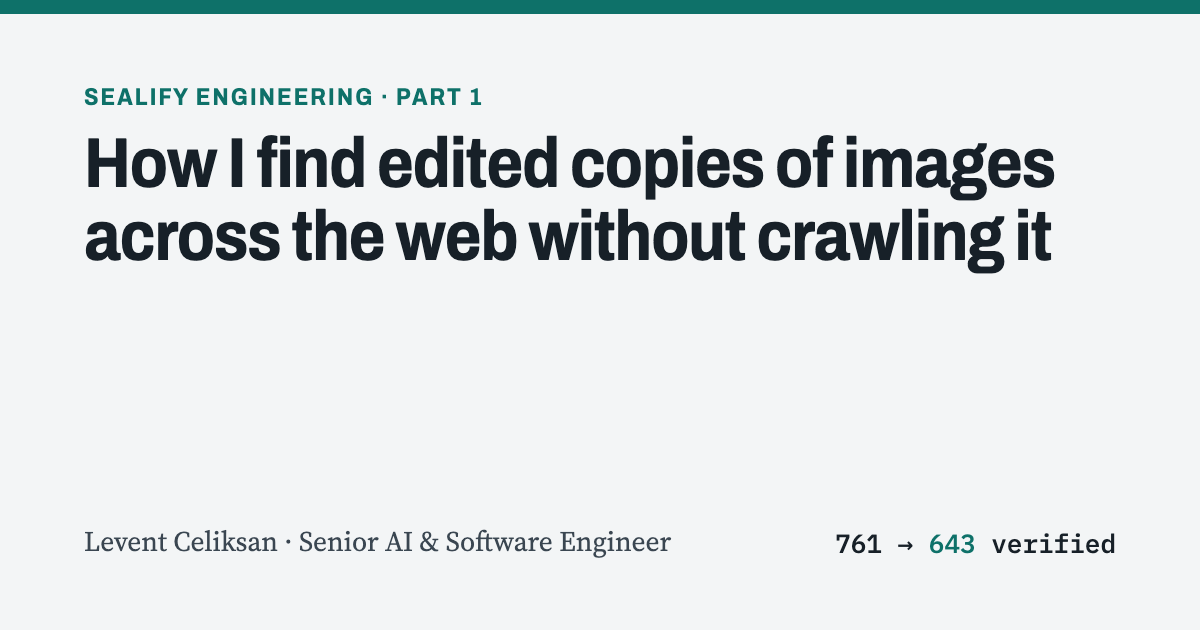
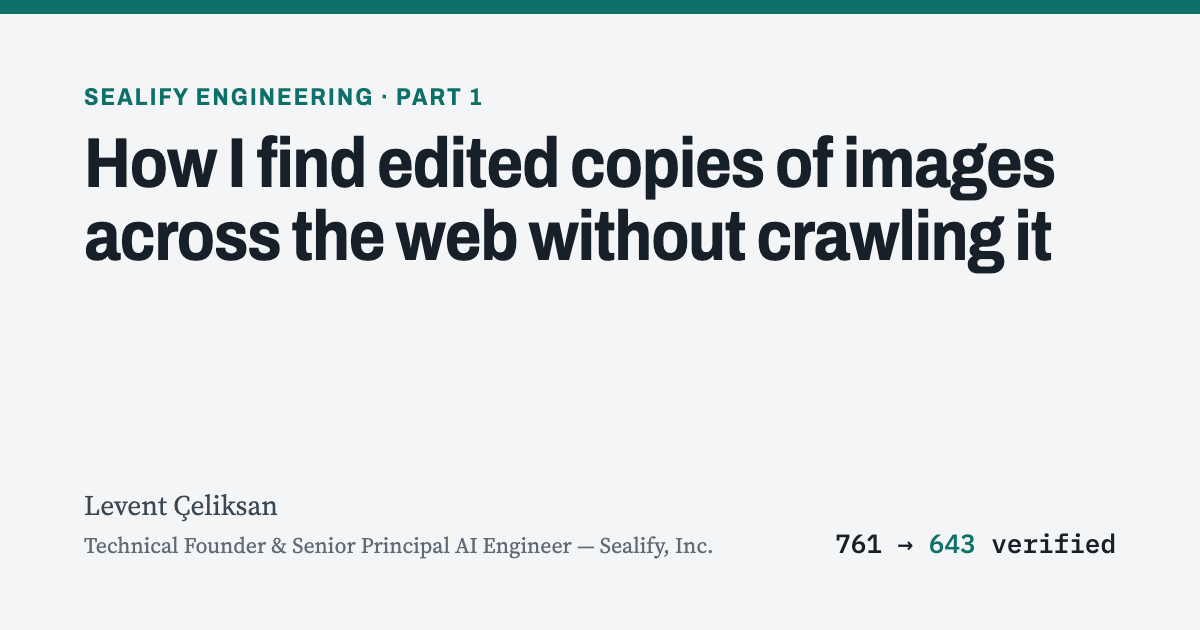
Use current title and name spelling in author lines and cover image

Changed region(s): [[0.0617, 0.7841, 0.5858, 0.9048]]

diff --git a/copy-detection/index.html b/copy-detection/index.html
@@ -3,7 +3,7 @@
 <head>
 <meta charset="utf-8">
 <meta name="viewport" content="width=device-width, initial-scale=1, viewport-fit=cover">
-<title>How I find edited copies of images across the web without crawling it · Levent Celiksan</title>
+<title>How I find edited copies of images across the web without crawling it · Levent Çeliksan</title>
 <link rel="preconnect" href="https://fonts.googleapis.com">
 <link rel="preconnect" href="https://fonts.gstatic.com" crossorigin>
 <link rel="stylesheet" href="https://fonts.googleapis.com/css2?family=Archivo:wdth,wght@87.5,500;87.5,700;100,600&family=IBM+Plex+Mono:wght@400;500&family=Source+Serif+4:ital,opsz,wght@0,8..60,400;0,8..60,600;1,8..60,400&display=swap">
@@ -160,7 +160,7 @@ footer.author .links{display:flex;flex-wrap:wrap;gap:6px 18px;font-size:14px}
 @media (prefers-reduced-motion:reduce){*{scroll-behavior:auto!important}}
 </style>
 <meta name="description" content="Search engines have already crawled the visual web. I use their indexes as the first stage of a copy-detection pipeline and verify every match locally on one Mac mini. Real run: 761 candidates, 643 verified copies on 396 domains.">
-<meta name="author" content="Levent Celiksan">
+<meta name="author" content="Levent Çeliksan">
 <link rel="canonical" href="https://leventceliksan.github.io/copy-detection/">
 <meta property="og:type" content="article">
 <meta property="og:title" content="How I find edited copies of images across the web without crawling it">
@@ -179,7 +179,7 @@ footer.author .links{display:flex;flex-wrap:wrap;gap:6px 18px;font-size:14px}
   <div class="eyebrow">Sealify engineering · Part 1</div>
   <h1>How I find edited copies of images across the web without crawling it</h1>
   <p class="dek">Search engines have already crawled the visual web. Crawling it all again would duplicate that work, along with the hardware, energy and water behind it. I use their indexes as the first stage of a copy-detection pipeline and do all of the verification myself, on one Mac mini.</p>
-  <div class="byline"><span><strong>Levent Celiksan</strong>, founder of Sealify</span><span>September 2026</span><span>11 min read</span></div>
+  <div class="byline"><span><strong>Levent Çeliksan</strong>, Technical Founder &amp; Senior Principal AI Engineer — Sealify, Inc.</span><span>September 2026</span><span>11 min read</span></div>
 </header>
 
 <article>
@@ -387,7 +387,7 @@ footer.author .links{display:flex;flex-wrap:wrap;gap:6px 18px;font-size:14px}
 </section>
 
 <footer class="author">
-  <div><b>Levent Celiksan</b> is a senior AI and software engineer with 19+ years in backend systems. He designed and wrote the Sealify platform himself and launched it in June 2026. He is the inventor on six US provisional patent applications in content protection, deepfake detection and multimedia matching, and was invited to participate in IPHatch North America 2026.</div>
+  <div><b>Levent Çeliksan</b><br>Technical Founder &amp; Senior Principal AI Engineer — Sealify, Inc.<br><br>He has 19+ years of experience in backend systems. He designed and wrote the Sealify platform himself and launched it in June 2026. He is the inventor on six US provisional patent applications in content protection, deepfake detection and multimedia matching, and was invited to participate in IPHatch North America 2026.</div>
   <div class="links"><a href="https://sealify.io">sealify.io</a><a href="https://linkedin.com/in/levent-celiksan">linkedin.com/in/levent-celiksan</a><a href="https://github.com/LeventCeliksan">github.com/LeventCeliksan</a></div>
 </footer>
 </div>

diff --git a/copy-detection/medium.html b/copy-detection/medium.html
@@ -99,6 +99,7 @@
 <li>Lawrence Berkeley National Laboratory, <a href="https://eta-publications.lbl.gov/sites/default/files/2024-12/lbnl-2024-united-states-data-center-energy-usage-report_1.pdf">2024 United States Data Center Energy Usage Report</a>.</li>
 <li>ITU and UNITAR, <a href="https://ewastemonitor.info/the-global-e-waste-monitor-2024/">The Global E-waste Monitor 2024</a>.</li>
 <li>Imperva (Thales), <a href="https://www.imperva.com/resources/resource-library/reports/2025-bad-bot-report/">2025 Bad Bot Report</a>.</li>
-<p><strong>Levent Celiksan</strong> is a senior AI and software engineer with 19+ years in backend systems. He designed and wrote the Sealify platform himself and launched it in June 2026. He is the inventor on six US provisional patent applications in content protection, deepfake detection and multimedia matching, and was invited to participate in IPHatch North America 2026.</p>
+<p><strong>Levent Çeliksan</strong><br>Technical Founder &amp; Senior Principal AI Engineer — Sealify, Inc.</p>
+<p>He has 19+ years of experience in backend systems. He designed and wrote the Sealify platform himself and launched it in June 2026. He is the inventor on six US provisional patent applications in content protection, deepfake detection and multimedia matching, and was invited to participate in IPHatch North America 2026.</p>
 <p><a href="https://sealify.io">sealify.io</a><a href="https://linkedin.com/in/levent-celiksan">linkedin.com/in/levent-celiksan</a><a href="https://github.com/LeventCeliksan">github.com/LeventCeliksan</a></p>
 </article></body></html>

diff --git a/index.html b/index.html
@@ -3,8 +3,8 @@
 <head>
 <meta charset="utf-8">
 <meta name="viewport" content="width=device-width, initial-scale=1">
-<title>Levent Celiksan · Writing</title>
-<meta name="description" content="Technical writing by Levent Celiksan, Senior AI & Software Engineer and technical founder of Sealify.">
+<title>Levent Çeliksan · Writing</title>
+<meta name="description" content="Technical writing by Levent Çeliksan, Technical Founder & Senior Principal AI Engineer — Sealify, Inc.">
 <link rel="stylesheet" href="https://fonts.googleapis.com/css2?family=Archivo:wdth,wght@87.5,700&family=Source+Serif+4:opsz,wght@8..60,400&display=swap">
 <style>
 :root{--bg:#F3F5F6;--ink:#172028;--muted:#5E6A75;--rule:#D6DCE1;--accent:#0E7169}
@@ -23,8 +23,8 @@ a{color:var(--ink)}
 </head>
 <body>
 <main>
-<h1>Levent Celiksan</h1>
-<p class="sub">Senior AI &amp; Software Engineer · Technical Founder of Sealify</p>
+<h1>Levent Çeliksan</h1>
+<p class="sub">Technical Founder &amp; Senior Principal AI Engineer — Sealify, Inc.</p>
 <h2>Writing</h2>
 <div class="item">
 <a href="copy-detection/">How I find edited copies of images across the web without crawling it</a>
